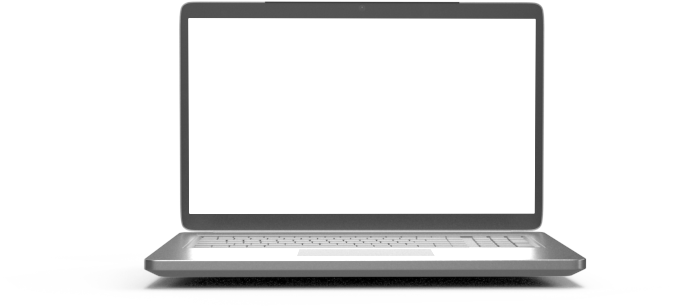
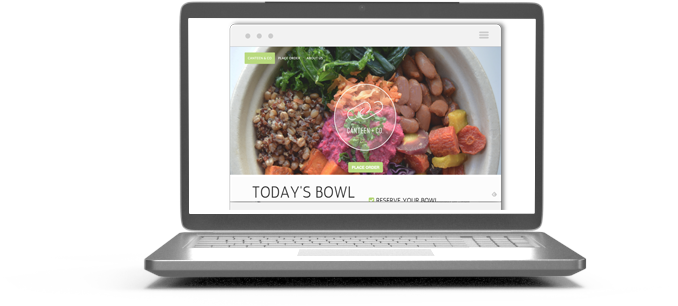
added new sectino

Changed region(s): [[0.3407, 0.0588, 0.7434, 0.6765]]

diff --git a/public/stylesheets/main.css b/public/stylesheets/main.css
@@ -12,6 +12,47 @@
 
 }
 
+#section_one h1 {
+  color: #FFCBC6; 
+}
+
+#section_two h1 {
+   color: #CC6A62;
+}
+
+#section_two {
+  background: linear-gradient(180deg, #FFF 0%, #FFF 100%);
+}
+
+#section_three {
+  background: linear-gradient(180deg, #CC6A62 0%, #CC6A62 100%);
+  margin:0;
+}
+
+.pair {
+  text-align: center; 
+  overflow: hidden; 
+}
+
+.pair:before {    /* create a full-height inline block pseudo=element */
+    content: ' ';
+    display: inline-block;
+    vertical-align: middle;  /* vertical alignment of the inline element */
+    height: 100%;
+}
+
+.this {
+  overflow: hidden; 
+  word-wrap: break-word;
+  z-index: 999;
+}
+
+.computer {
+  display: inline-block;
+  vertical-align: middle;
+  padding-top: 5%;  
+}
+
 @font-face {
     font-family: 'Malva-Black';
     src: url('/Malva-Black.eot');
@@ -24,10 +65,9 @@
   width: 5%; 
 }
 
-#header{
+.header{
   font-family: Malva-Black;
-  font-size: 9em;
-  color: #FFCBC6;  
+  font-size: 9em; 
 }
 
 .image-container {
@@ -83,7 +123,8 @@ h1 {
 
 .jumbotron {
   padding-top: 10px; 
-  padding-bottom: 50px; }
+  padding-bottom: 50px;
+  margin-bottom: 0; }
   .jumbotron .btn-primary {
     background: #845ac7;
     border-color: #845ac7; }
